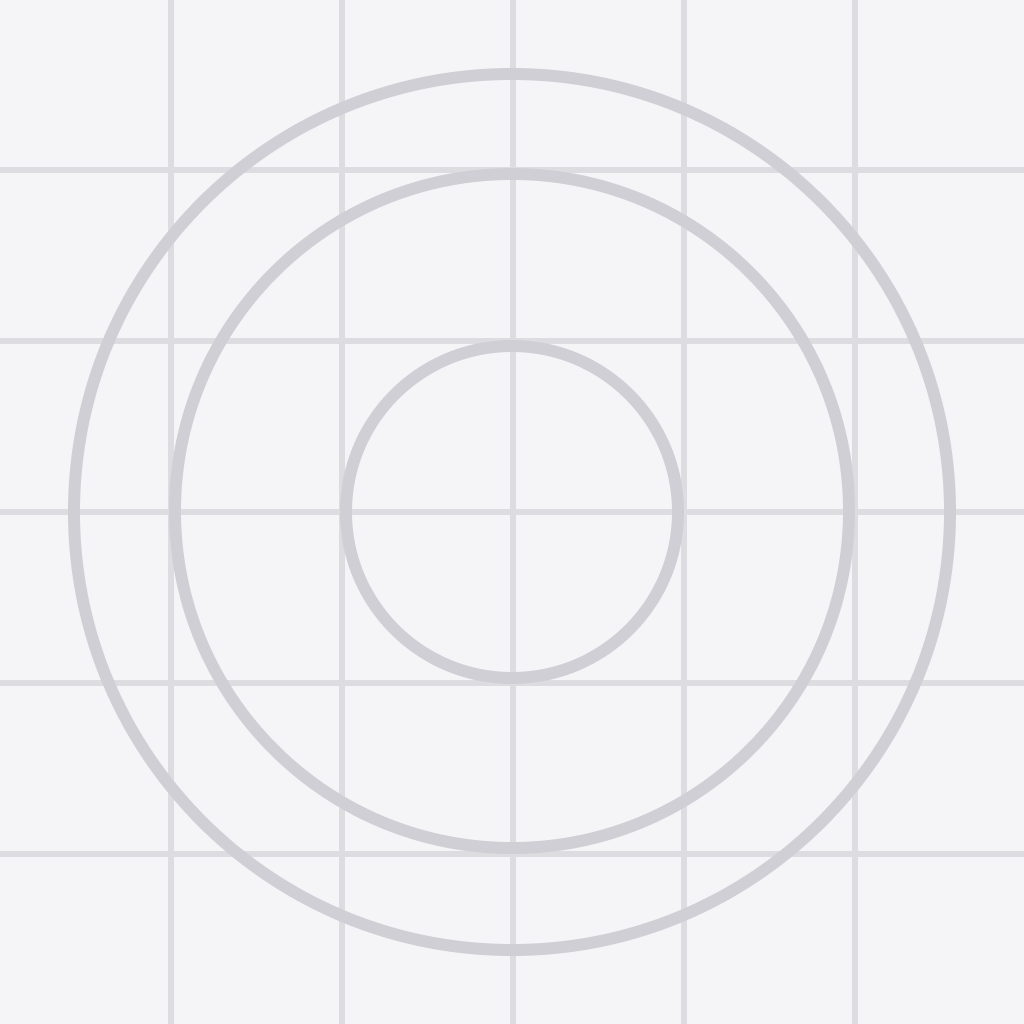
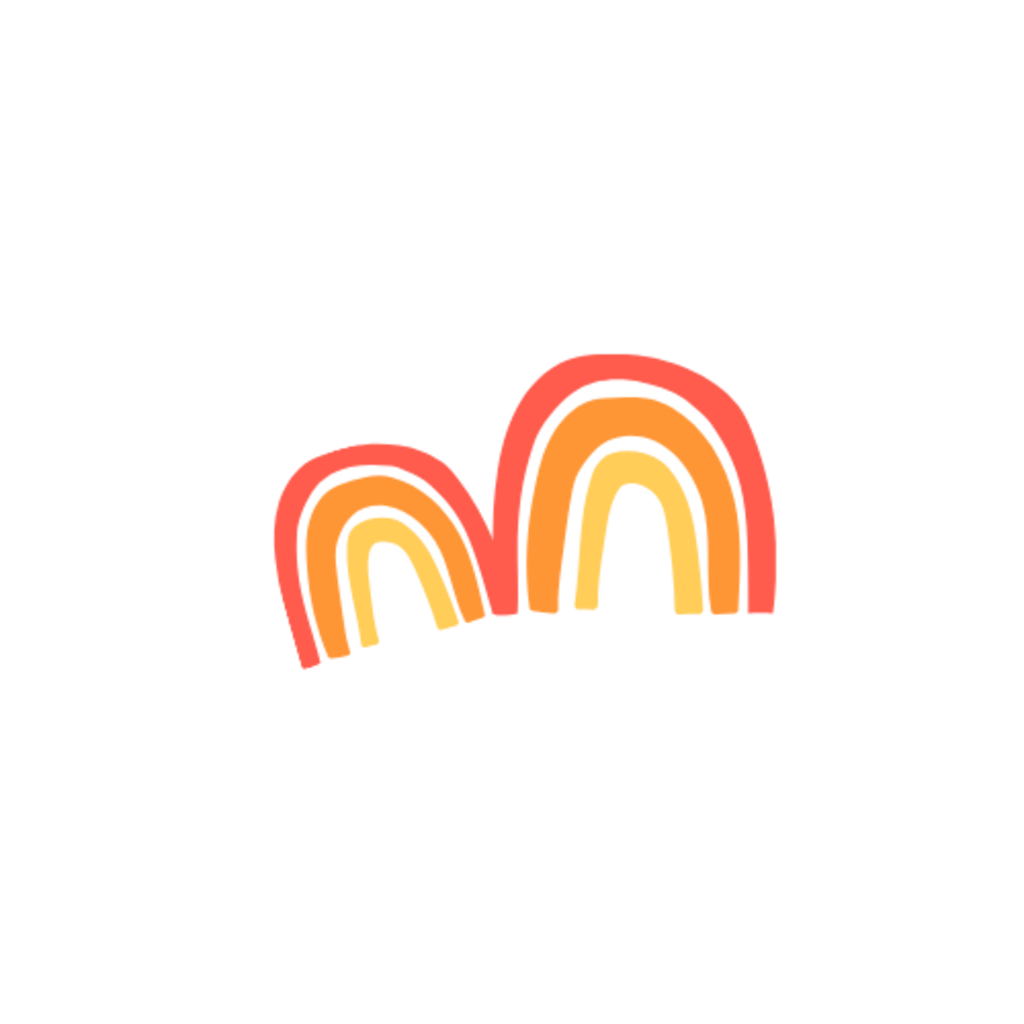
Working iOS, merged Android (untested), fixed invite email (from magic link -> supabase funiction w/ resend)

diff --git a/supabase/functions/send-invitation-email/index.ts b/supabase/functions/send-invitation-email/index.ts
@@ -1,5 +1,5 @@
 import { serve } from 'https://deno.land/std@0.168.0/http/server.ts'
-import { createClient } from 'https://esm.sh/@supabase/supabase-js@2'
+import { Resend } from 'https://esm.sh/resend@2.0.0'
 
 const corsHeaders = {
   'Access-Control-Allow-Origin': '*',
@@ -13,25 +13,38 @@ serve(async (req) => {
   }
 
   try {
-    // Create a Supabase client with the Auth context of the function
-    const supabaseClient = createClient(
-      Deno.env.get('SUPABASE_URL') ?? '',
-      Deno.env.get('SUPABASE_SERVICE_ROLE_KEY') ?? ''
-    )
+    // Initialize Resend with API key
+    const resend = new Resend(Deno.env.get('RESEND_API_KEY'))
 
     // Get the request body
-    const { email, signInUrl } = await req.json()
+    const body = await req.json()
+    console.log('Received request body:', JSON.stringify(body))
+
+    const { email, signInUrl } = body
 
     if (!email || !signInUrl) {
       throw new Error('Email and sign-in URL are required')
     }
 
-    // Send the invitation email using Supabase's email service
-    const { error } = await supabaseClient.auth.admin.inviteUserByEmail(email, {
-      redirectTo: signInUrl,
-      data: {
-        signInUrl: signInUrl,
-      }
+    // Send the invitation email using Resend
+    const { data, error } = await resend.emails.send({
+      from: Deno.env.get('RESEND_FROM_EMAIL') ?? '[email redacted]',
+      to: [email],
+      subject: 'You\'re invited! 🎯',
+      html: `
+        <div style="font-family: system-ui, -apple-system, sans-serif; max-width: 400px; margin: 40px auto; text-align: center;">
+          <h2 style="color: #333; margin-bottom: 20px;">Ready to move? 🚀</h2>
+          <p style="color: #666; font-size: 16px; margin-bottom: 30px;">
+            Someone challenged you to join the fun!
+          </p>
+          <a href="${signInUrl}" style="display: inline-block; padding: 14px 32px; background: #667eea; color: white; text-decoration: none; border-radius: 8px; font-weight: 600;">
+            Join Now
+          </a>
+          <p style="color: #999; font-size: 12px; margin-top: 30px;">
+            <a href="https://www.maxxmotion.xyz" style="color: #667eea; text-decoration: none;">maxxmotion.xyz</a>
+          </p>
+        </div>
+      `
     })
 
     if (error) {
@@ -39,7 +52,7 @@ serve(async (req) => {
     }
 
     return new Response(
-      JSON.stringify({ message: 'Invitation email sent successfully' }),
+      JSON.stringify({ message: 'Invitation email sent successfully', id: data?.id }),
       {
         headers: { ...corsHeaders, 'Content-Type': 'application/json' },
         status: 200,

diff --git a/app/admin/users.tsx b/app/admin/users.tsx
@@ -99,11 +99,11 @@ export default function UserManagementScreen() {
         ? "http://localhost:8081/login"
         : `${window.location.origin}/login`;
 
-      // Send magic link to login page
-      const { error } = await supabase.auth.signInWithOtp({
-        email: inviteEmail,
-        options: {
-          emailRedirectTo: redirectUrl,
+      // Send invitation email
+      const { error } = await supabase.functions.invoke("send-invitation-email", {
+        body: {
+          email: inviteEmail,
+          signInUrl: redirectUrl,
         },
       });
 